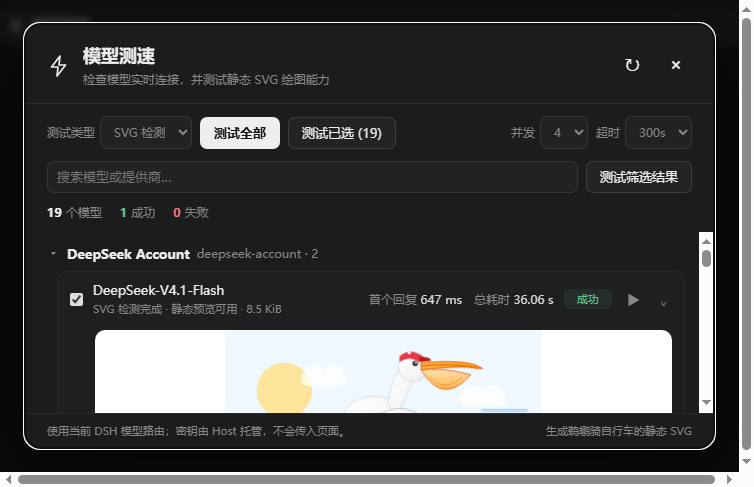
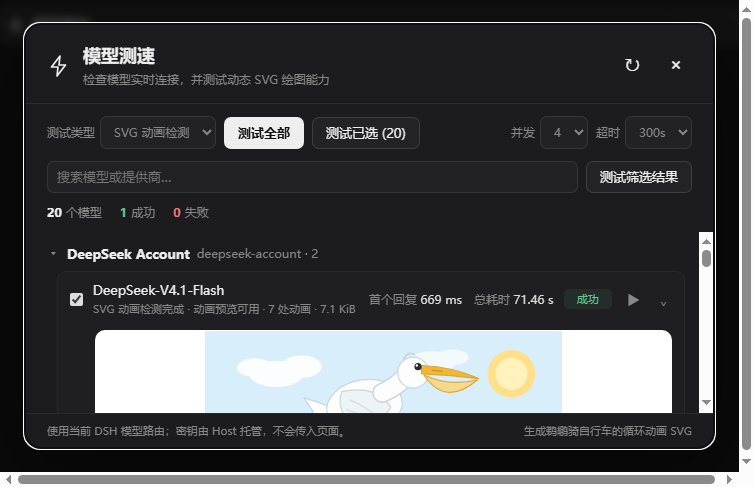
feat: test animated SVG generation

diff --git a/client.js b/client.js
@@ -5,8 +5,8 @@ window.__ModuleLoader__.load({
     const ReactDOM = require('react-dom');
     const zh = {"meta":{"title":"模型测速","description":"测试模型连接、首个回复耗时和总耗时。"},"title":"模型测速","subtitle":"检查所有已配置模型的实时连接状态","testAll":"测试全部","testSelected":"测试已选","testOne":"测试此模型","testFiltered":"测试筛选结果","stop":"停止","refresh":"刷新模型列表","close":"关闭","concurrency":"并发","timeout":"超时","search":"搜索模型或提供商…","models":"个模型","succeeded":"成功","failedCount":"失败","testing":"测试中","success":"成功","failed":"失败","untested":"未测试","firstToken":"首个回复","total":"总耗时","reply":"模型回复","reasoning":"思考","emptyReply":"无文本回复","details":"技术详情","technicalDetails":"技术详情","copyRequest":"复制请求","model":"测试模型","provider":"提供商","prompt":"提示词","promptHint":"让模型只回复 OK","startedAt":"开始时间","transport":"传输","stream":"流式","loading":"正在读取模型列表…","empty":"暂未发现可测试模型。请先在模型设置中添加提供商和模型。","noMatch":"没有符合搜索条件的模型。","loadError":"读取模型列表失败","catalogError":"目录异常","select":"选择","footnote":"使用当前 DSH 模型路由；密钥由 Host 托管，不会传入页面。"};
     const en = {"meta":{"title":"Model Probe","description":"Test model connectivity, first-response latency, and total latency."},"title":"Model Probe","subtitle":"Check live connectivity for every configured model","testAll":"Test all","testSelected":"Test selected","testOne":"Test this model","testFiltered":"Test filtered","stop":"Stop","refresh":"Refresh model list","close":"Close","concurrency":"Concurrency","timeout":"Timeout","search":"Search models or providers…","models":"models","succeeded":"passed","failedCount":"failed","testing":"Testing","success":"Passed","failed":"Failed","untested":"Not tested","firstToken":"First response","total":"Total","reply":"Reply","reasoning":"Reasoning","emptyReply":"No text reply","details":"Technical details","technicalDetails":"Technical details","copyRequest":"Copy request","model":"Model","provider":"Provider","prompt":"Prompt","promptHint":"Reply with OK only","startedAt":"Started","transport":"Transport","stream":"Streaming","loading":"Loading model catalog…","empty":"No testable models found. Add a provider and models in Model Settings.","noMatch":"No models match your search.","loadError":"Failed to load model catalog","catalogError":"Catalog error","select":"Select","footnote":"Uses current DSH model routes. Keys stay on the Host and never reach this page."};
-    Object.assign(zh, { subtitle: '检查模型实时连接，并测试静态 SVG 绘图能力', testType: '测试类型', connectionTest: '连接检测', svgTest: 'SVG 检测', staticPreview: '静态预览', svgReady: 'SVG 检测完成 · 静态预览可用', svgSource: '清洗后的 SVG 源码（纯文本）', svgNotice: '仅显示静态内容；动画、脚本和外部资源不会保留。', svgPromptHint: '生成鹈鹕骑自行车的静态 SVG' });
-    Object.assign(en, { subtitle: 'Check live connectivity and static SVG generation', testType: 'Test type', connectionTest: 'Connectivity', svgTest: 'SVG probe', staticPreview: 'Static preview', svgReady: 'SVG probe completed · static preview ready', svgSource: 'Sanitized SVG source (plain text)', svgNotice: 'Static content only; animation, scripts, and external resources are removed.', svgPromptHint: 'Generate a static SVG of a pelican riding a bicycle' });
+    Object.assign(zh, { subtitle: '检查模型实时连接，并测试动态 SVG 绘图能力', testType: '测试类型', connectionTest: '连接检测', svgTest: 'SVG 动画检测', staticPreview: '动画预览', svgReady: 'SVG 动画检测完成 · 动画预览可用', animations: '处动画', svgSource: '清洗后的 SVG 源码（纯文本）', svgNotice: '保留原生 SVG 动画；脚本、外部资源和事件已移除。', svgPromptHint: '生成鹈鹕骑自行车的循环动画 SVG' });
+    Object.assign(en, { subtitle: 'Check live connectivity and animated SVG generation', testType: 'Test type', connectionTest: 'Connectivity', svgTest: 'Animated SVG probe', staticPreview: 'Animated preview', svgReady: 'SVG probe completed · animated preview ready', animations: 'animations', svgSource: 'Sanitized SVG source (plain text)', svgNotice: 'Native SVG animation is preserved; scripts, external resources, and events are removed.', svgPromptHint: 'Generate a looping animated SVG of a pelican riding a bicycle' });
 const NS = 'dsh-model-probe';
 const API = '/api/dsh-model-probe';
 const keyOf = (provider, model) => `${provider}\u0000${model}`;
@@ -41,12 +41,12 @@ return {
       const state = status?.state || 'idle';
       const badge = state === 'running' ? t('testing') : state === 'success' ? t('success') : state === 'error' ? t('failed') : t('untested');
       const resultType = result?.type || type;
-      const fallbackPrompt = resultType === 'svg' ? 'Generate an SVG of a pelican riding a bicycle. Reply with the SVG code only.\n\nOutput a complete static SVG only. Do not use scripts, animation, external resources or links.' : 'Reply with OK only.';
+      const fallbackPrompt = resultType === 'svg' ? 'Generate an animated SVG of a pelican riding a bicycle. Reply with SVG code only.\n\nUse native SVG SMIL animation, especially <animate> and <animateTransform>, to visibly rotate the bicycle wheels and move the pelican or bicycle. Include at least one visible looping animation with repeatCount="indefinite" and a duration between 2 and 6 seconds. Nest animation elements inside their target shapes. Output one complete SVG only. Do not use scripts, CSS, <style>, <use>, external resources or links.' : 'Reply with OK only.';
       const requestText = result ? JSON.stringify(result.request || { provider: group.provider, model: model.id, messages: [{ role: 'user', content: [{ type: 'text', text: fallbackPrompt }] }], stream: true }, null, 2) : '';
       return h('div', { className: 'dmp-model', 'data-running': state === 'running' || undefined },
         h('input', { className: 'dmp-check', type: 'checkbox', checked: selected, onChange: onSelect, 'aria-label': `${t('select')} ${model.name}` }),
         h('div', { className: 'dmp-model-info' }, h('div', { className: 'dmp-model-name', title: model.id }, model.name),
-          result && h('div', { className: 'dmp-model-sub' }, result.ok ? result.svg ? `${t('svgReady')} · ${(result.svgBytes / 1024).toFixed(1)} KiB` : `${t('reply')}: ${result.reply || (result.reasoning ? `[${t('reasoning')}] ${result.reasoning}` : `(${t('emptyReply')})`)}` : `${result.code || 'ERROR'}${result.status ? ` · HTTP ${result.status}` : ''} · ${result.message}`)),
+          result && h('div', { className: 'dmp-model-sub' }, result.ok ? result.svg ? `${t('svgReady')} · ${result.animationCount || 0} ${t('animations')} · ${(result.svgBytes / 1024).toFixed(1)} KiB` : `${t('reply')}: ${result.reply || (result.reasoning ? `[${t('reasoning')}] ${result.reasoning}` : `(${t('emptyReply')})`)}` : `${result.code || 'ERROR'}${result.status ? ` · HTTP ${result.status}` : ''} · ${result.message}`)),
         result && h('div', { className: 'dmp-metrics' }, h('span', null, `${t('firstToken')} `, h('b', null, ms(result.firstTokenMs))), h('span', null, `${t('total')} `, h('b', null, ms(result.elapsedMs)))),
         h('span', { className: `dmp-badge dmp-badge-${state}` }, badge),
         h('button', { className: 'dmp-detail-btn', type: 'button', title: t('testOne'), disabled: running, onClick: onTest }, '▶'),

diff --git a/index.js b/index.js
@@ -10,7 +10,7 @@ const SVG_TIMEOUT = 300000;
 const SVG_MAX_TOKENS = 16384;
 const SVG_MAX_BYTES = 32768;
 const PROMPT = 'Reply with OK only.';
-const SVG_PROMPT = 'Generate an SVG of a pelican riding a bicycle. Reply with the SVG code only.\n\nOutput a complete static SVG only. Do not use scripts, animation, external resources or links.';
+const SVG_PROMPT = 'Generate an animated SVG of a pelican riding a bicycle. Reply with SVG code only.\n\nUse native SVG SMIL animation, especially <animate> and <animateTransform>, to visibly rotate the bicycle wheels and move the pelican or bicycle. Include at least one visible looping animation with repeatCount="indefinite" and a duration between 2 and 6 seconds. Nest animation elements inside their target shapes. Output one complete SVG only. Do not use scripts, CSS, <style>, <use>, external resources or links.';
 
 function textOf(error) {
   return error instanceof Error ? error.message : String(error);
@@ -90,17 +90,25 @@ export function sanitizeSvg(text) {
     .replace(/<\?[\s\S]*?\?>/g, '')
     .replace(/<!DOCTYPE[\s\S]*?>/gi, '')
     .replace(/<!--[\s\S]*?-->/g, '')
-    .replace(/<(script|foreignObject|iframe|object|embed|image|use|style|animate|animateMotion|animateTransform|set|discard)\b[^>]*>[\s\S]*?<\/\1\s*>/gi, '')
-    .replace(/<(script|foreignObject|iframe|object|embed|image|use|style|animate|animateMotion|animateTransform|set|discard)\b[^>]*\/\s*>/gi, '')
+    .replace(/<(script|foreignObject|iframe|object|embed|image|use|style|discard)\b[^>]*>[\s\S]*?<\/\1\s*>/gi, '')
+    .replace(/<(script|foreignObject|iframe|object|embed|image|use|style|discard)\b[^>]*\/\s*>/gi, '')
     .replace(/\s+(?:on[a-z0-9_-]+|href|xlink:href|src|srcdoc|style)\s*=\s*(?:"[^"]*"|'[^']*'|[^\s>]+)/gi, '')
     .replace(/url\(\s*['"]?\s*(?!#)[^)]*\)/gi, 'none');
-  if (/<(?:script|foreignObject|iframe|object|embed|image|use|style|animate|animateMotion|animateTransform|set|discard)\b/i.test(svg) || /\son[a-z0-9_-]+\s*=/i.test(svg) || /(?:javascript|data):/i.test(svg)) {
-    throw new Error('SVG 含有不支持的动态或外部内容');
+  if (/<(?:script|foreignObject|iframe|object|embed|image|use|style|discard)\b/i.test(svg) || /\son[a-z0-9_-]+\s*=/i.test(svg) || /(?:javascript|data):/i.test(svg)) {
+    throw new Error('SVG 含有不支持的脚本或外部内容');
+  }
+  for (const tag of svg.matchAll(/<(?:animate|animateMotion|animateTransform|set)\b[^>]*>/gi)) {
+    const attribute = tag[0].match(/\battributeName\s*=\s*(?:"([^"]*)"|'([^']*)'|([^\s>]+))/i);
+    const target = (attribute?.[1] || attribute?.[2] || attribute?.[3] || '').trim().toLowerCase();
+    if (target.startsWith('on') || ['href', 'xlink:href', 'src', 'style'].includes(target)) {
+      throw new Error('SVG 动画不能修改事件、链接或样式属性');
+    }
   }
   svg = svg.trim();
   const bytes = Buffer.byteLength(svg, 'utf8');
+  const animationCount = (svg.match(/<(?:animate|animateMotion|animateTransform)\b/gi) || []).length;
   if (bytes > SVG_MAX_BYTES) throw new Error(`清洗后 SVG 超过 ${SVG_MAX_BYTES / 1024} KiB`);
-  return { svg, bytes };
+  return { svg, bytes, animationCount };
 }
 
 export async function probeModel(llm, input, signal) {
@@ -166,9 +174,15 @@ export async function probeModel(llm, input, signal) {
     };
     if (isSvg) {
       try {
-        const { svg, bytes } = sanitizeSvg(reply);
+        const { svg, bytes, animationCount } = sanitizeSvg(reply);
         result.svg = svg;
         result.svgBytes = bytes;
+        result.animationCount = animationCount;
+        if (!animationCount) {
+          result.ok = false;
+          result.code = 'STATIC_SVG';
+          result.message = '模型返回的 SVG 没有原生动画';
+        }
       } catch (error) {
         result.ok = false;
         result.code = 'INVALID_SVG';

diff --git a/test/probe.test.js b/test/probe.test.js
@@ -85,28 +85,45 @@ test('external stop aborts the model stream', async () => {
   assert.match(result.message, /测试已停止/);
 });
 
-test('SVG probe requests the pelican fixture and returns sanitized source', async () => {
+test('SVG probe requests an animated pelican fixture and returns sanitized source', async () => {
   const result = await probeModel(llmWith(async function* (options) {
-    assert.match(options.messages[0].content[0].text, /pelican riding a bicycle/);
+    assert.match(options.messages[0].content[0].text, /animated SVG of a pelican riding a bicycle/);
+    assert.match(options.messages[0].content[0].text, /repeatCount="indefinite"/);
     assert.equal(options.maxTokens, 16384);
-    yield { type: 'text-delta', text: '```svg\n<svg viewBox="0 0 10 10" onload="alert(1)"><rect width="10" height="10"/><script>alert(1)</script></svg>\n```' };
+    yield { type: 'text-delta', text: '```svg\n<svg viewBox="0 0 10 10" onload="alert(1)"><rect width="10" height="10"><animate attributeName="x" values="0;5;0" dur="3s" repeatCount="indefinite"/></rect><script>alert(1)</script></svg>\n```' };
     yield { type: 'finish', reason: { kind: 'stop' } };
   }), { provider: 'one', model: 'model-a', type: 'svg' });
   assert.equal(result.ok, true);
   assert.equal(result.type, 'svg');
-  assert.equal(result.svg, '<svg viewBox="0 0 10 10"><rect width="10" height="10"/></svg>');
+  assert.equal(result.svg, '<svg viewBox="0 0 10 10"><rect width="10" height="10"><animate attributeName="x" values="0;5;0" dur="3s" repeatCount="indefinite"/></rect></svg>');
+  assert.equal(result.animationCount, 1);
   assert.equal(result.svgBytes, Buffer.byteLength(result.svg));
   assert.equal(result.request.maxTokens, 16384);
 });
 
-test('SVG sanitizer removes active content, animation and external resources', () => {
-  const { svg } = sanitizeSvg('<svg xmlns="http://www.w3.org/2000/svg" style="background:url(https://example.test)"><style>*{fill:red}</style><animate attributeName="x" to="1"/><image href="https://example.test/a.png"/><a xlink:href="javascript:alert(1)"><circle r="4" fill="url(#ok)"/></a></svg>');
+test('SVG sanitizer preserves native animation but removes active and external content', () => {
+  const { svg, animationCount } = sanitizeSvg('<svg xmlns="http://www.w3.org/2000/svg" style="background:url(https://example.test)"><style>*{fill:red}</style><animate attributeName="x" to="1"/><image href="https://example.test/a.png"/><a xlink:href="javascript:alert(1)"><circle r="4" fill="url(#ok)"/></a></svg>');
   assert.equal(svg.includes('<script'), false);
   assert.equal(svg.includes('<style'), false);
-  assert.equal(svg.includes('<animate'), false);
+  assert.equal(svg.includes('<animate attributeName="x"'), true);
+  assert.equal(animationCount, 1);
   assert.equal(svg.includes('<image'), false);
   assert.equal(/onload|href|style=|javascript:|https:/.test(svg), false);
   assert.match(svg, /fill="url\(#ok\)"/);
+});
+
+test('SVG probe marks a static drawing as not meeting the animation fixture', async () => {
+  const result = await probeModel(llmWith(async function* () {
+    yield { type: 'text-delta', text: '<svg><circle r="4"/></svg>' };
+    yield { type: 'finish', reason: { kind: 'stop' } };
+  }), { provider: 'one', model: 'model-a', type: 'svg' });
+  assert.equal(result.ok, false);
+  assert.equal(result.code, 'STATIC_SVG');
+  assert.equal(result.animationCount, 0);
+});
+
+test('SVG sanitizer rejects animations that target links or events', () => {
+  assert.throws(() => sanitizeSvg('<svg><rect width="10" height="10"><animate attributeName="href" values="https://example.test"/></rect></svg>'), /动画不能修改/);
 });
 
 test('SVG probe rejects replies without a complete SVG', async () => {

diff --git a/README.md b/README.md
@@ -18,8 +18,8 @@
 - 从 DSH 实时读取所有提供商与模型目录。
 - 单个提供商分组、模型搜索、单模型测试、勾选测试、筛选结果测试、全部测试。
 - 批量测试可停止；连接检测支持 2 / 4 / 8 路并发与 15 / 45 / 90 秒超时选择。
-- SVG 检测使用统一的「鹈鹕骑自行车」提示词，输出上限 16384 tokens，最长等待 5 分钟。
-- SVG 结果支持静态预览、清洗后的源码查看和请求详情；动画、脚本及外部资源会被移除，清洗后最大 32 KiB。
+- SVG 动画检测使用统一的「鹈鹕骑自行车」提示词，要求车轮转动、主体移动和循环动画，输出上限 16384 tokens，最长等待 5 分钟。
+- SVG 结果支持动画预览、动画数量、清洗后的源码查看和请求详情；保留原生 SMIL 动画，脚本、外部资源和事件会被移除，清洗后最大 32 KiB。
 - 流式测试、首个输出耗时、总耗时、回复与思考内容、Token 用量。
 - 失败 code、HTTP 状态和脱敏错误信息。
 - 可展开、可复制的技术请求详情。
@@ -35,7 +35,7 @@
 
 测试提示词为 `Reply with OK only.`。连接测试以模型请求正常完成为成功依据，不强制要求回复恰好是 `OK`；思考模型只返回思考内容也属于已连通。
 
-SVG 检测提示词为 `Generate an SVG of a pelican riding a bicycle. Reply with the SVG code only.`，并附加静态 SVG 约束。只有回复包含完整、可清洗的 SVG 才算通过；预览在禁用脚本与外部资源的无权限 iframe 中显示。
+SVG 检测提示词为 `Generate an animated SVG of a pelican riding a bicycle. Reply with SVG code only.`，并要求使用原生 SMIL 让车轮和主体形成 2–6 秒循环动画。只有回复包含完整、可清洗且至少含一个原生动画元素的 SVG 才算通过；静态 SVG 会标记为 `STATIC_SVG`。预览在禁用脚本与外部资源的无权限 iframe 中播放。
 
 ## 验证
 
